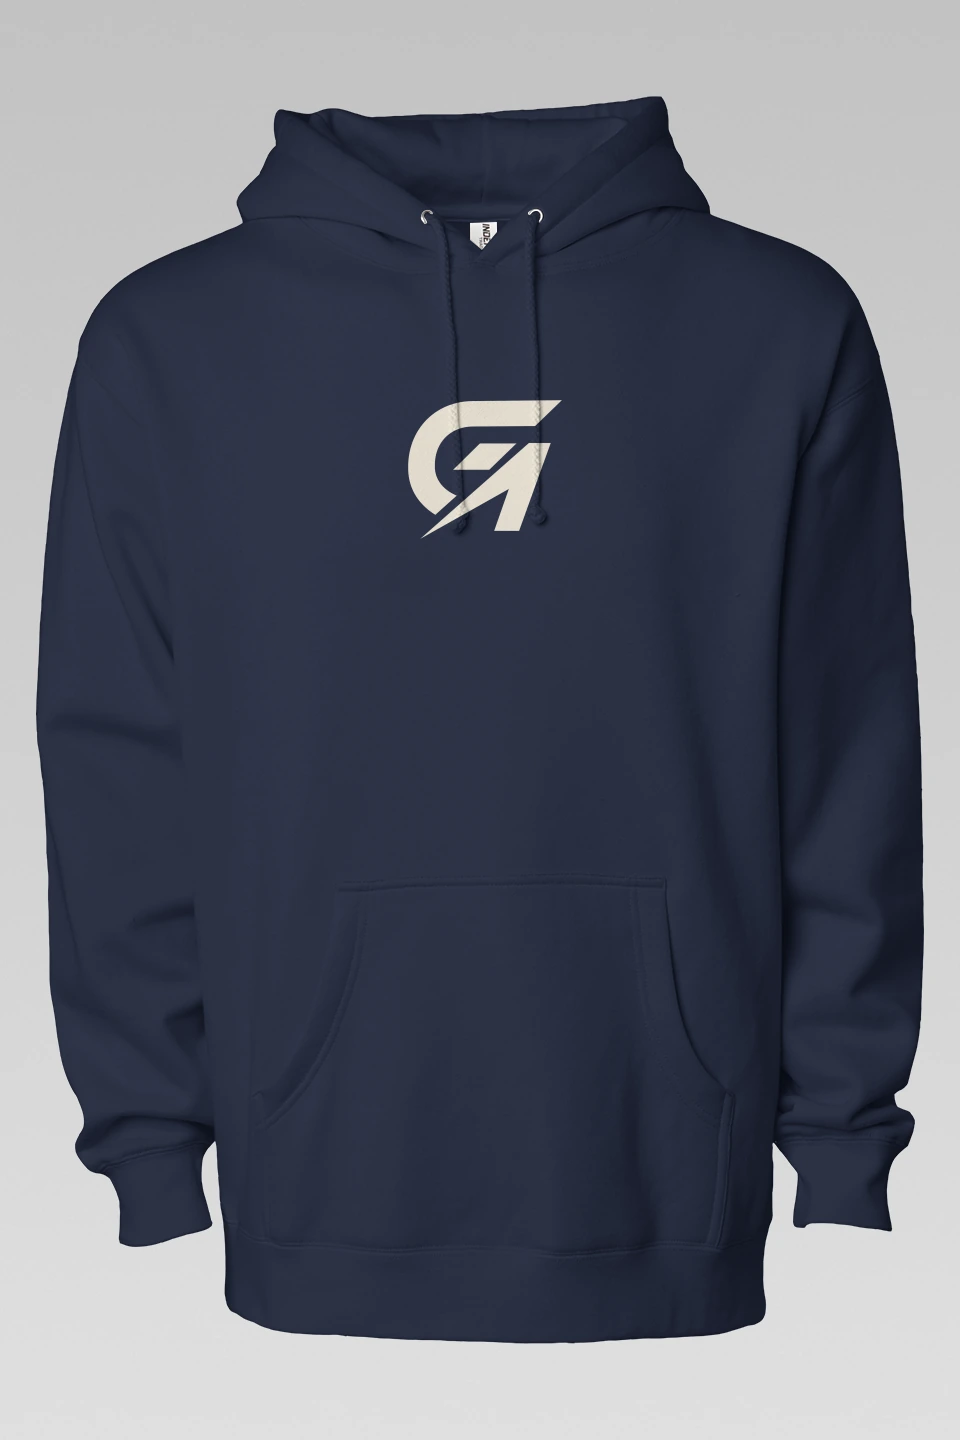
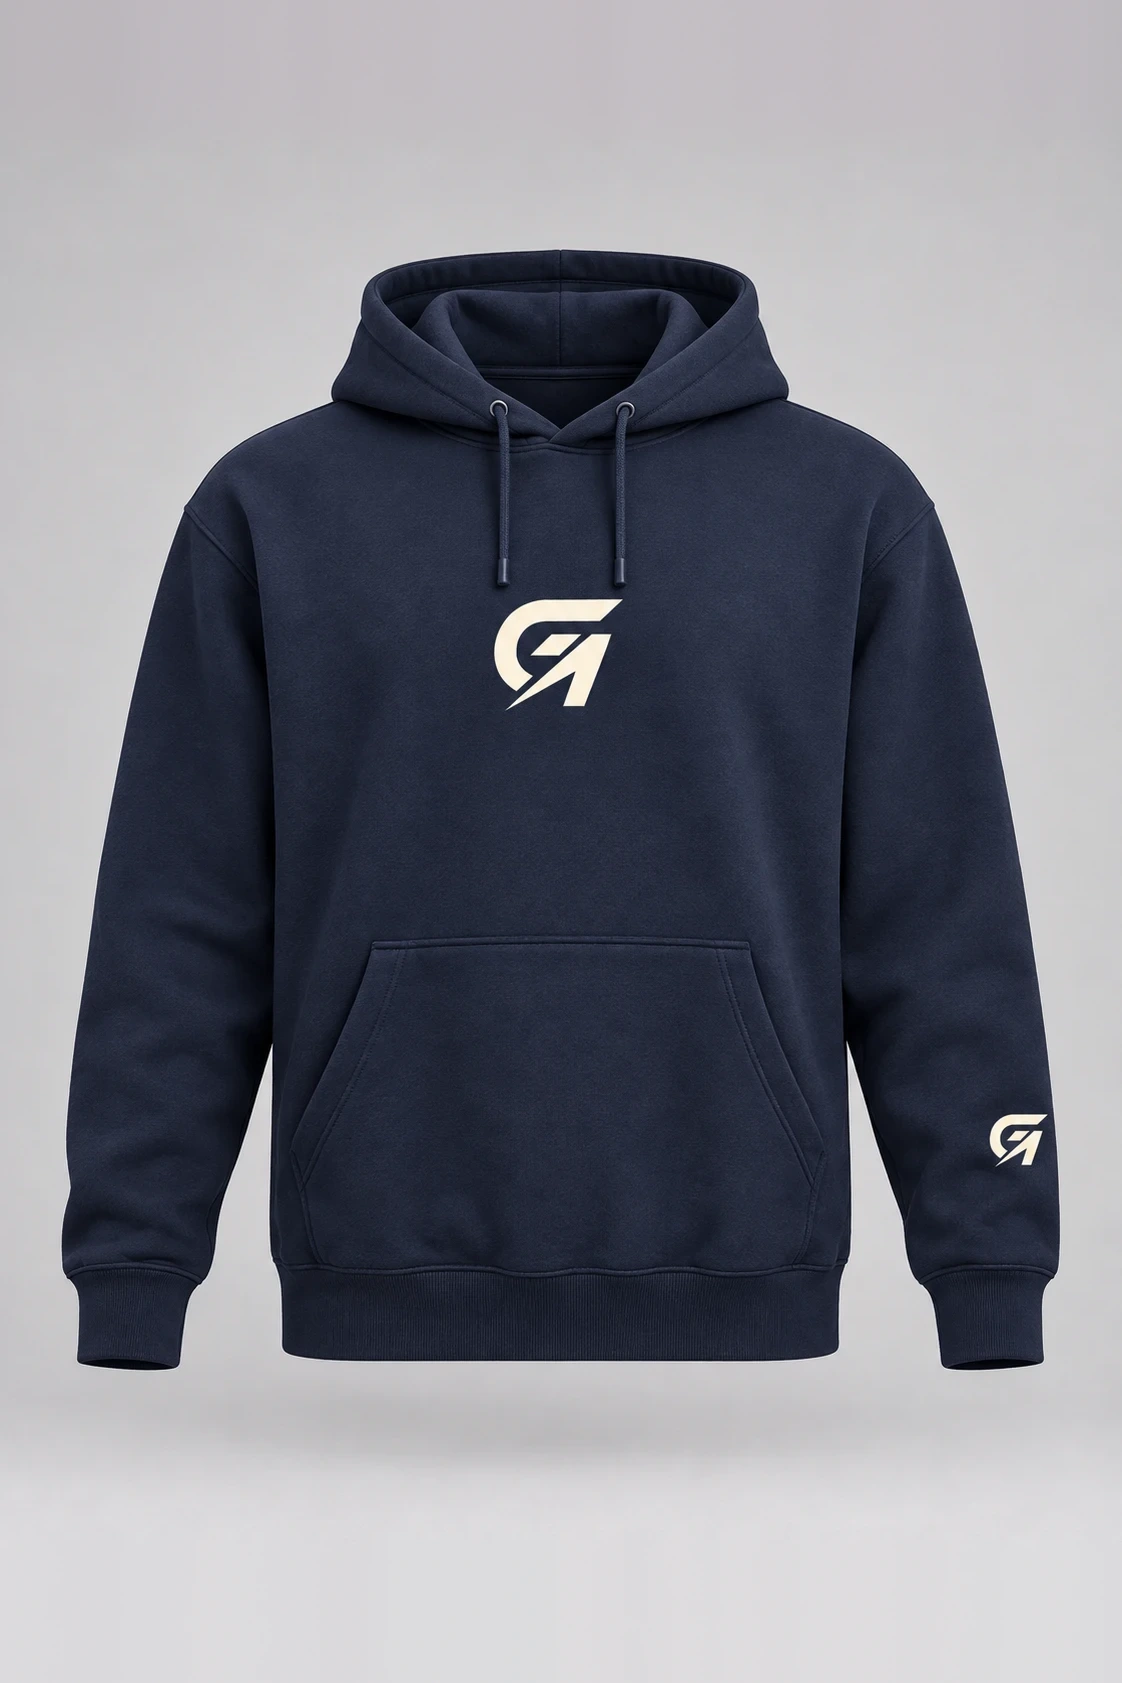
Lead the Navy Heritage Hoodie with the owner's product shot and model photos
Owner instruction 2026-10-22: upload these four now (Navy Heritage).

- Four 1122 x 1402 photos (product shot, model front, quarter left,
  quarter right) framed to 2:3 with backdrop extended above and below;
  original pixels untouched; seams under one level.
- Same gallery order as Black and Grey Heather, Apliiq's sleeve-side
  render last. The product shot replaces the Apliiq render at the same
  path with its own cache revision; the render moved to
  designs/58/retired-render.

Changed region(s): [[0.0, 0.0625, 0.9688, 0.9375], [0.3125, 0.4062, 0.3438, 0.4375], [0.125, 0.6562, 0.1562, 0.6875]]

diff --git a/src/lib/products.ts b/src/lib/products.ts
@@ -3787,11 +3787,28 @@ export const products: Product[] = [
         supplierColor: "Navy",
         hex: "#2A3043",
         skuFragment: "NAVY",
+        // The owner's product shot and model photos (2026-10-22) lead; Apliiq's
+        // sleeve-side render stays last for the sleeve detail.
         images: [
           {
             src: "/products/goal-heritage-hoodie-navy-catalog-product-front-20261022.webp",
-            alt: "GOAL Athletics Heritage Hoodie in Navy, product front with the cream GA monogram centred on the chest",
-            caption: "Concept render. Not a photograph of a manufactured sample.",
+            alt: "GOAL Athletics Heritage Hoodie in Navy, product front with the cream GA monogram centred on the chest and the small cream GA monogram on the left sleeve above the cuff",
+            caption: "AI-generated catalog visualization. Not a photograph of a manufactured sample.",
+          },
+          {
+            src: "/products/goal-heritage-hoodie-navy-catalog-model-front-20261022.webp",
+            alt: "Model facing forward in the Navy Heritage Hoodie with the cream GA monogram on the chest and on the left sleeve, black shorts and white sneakers",
+            caption: "AI-generated catalog visualization. Not a photograph of a manufactured sample.",
+          },
+          {
+            src: "/products/goal-heritage-hoodie-navy-catalog-model-quarter-left-20261022.webp",
+            alt: "Same model turned to the left in the Navy Heritage Hoodie, cream GA monogram on the chest and the left sleeve",
+            caption: "AI-generated catalog visualization. Not a photograph of a manufactured sample.",
+          },
+          {
+            src: "/products/goal-heritage-hoodie-navy-catalog-model-quarter-right-20261022.webp",
+            alt: "Same model turned to the right in the Navy Heritage Hoodie, cream GA monogram on the chest and the left sleeve",
+            caption: "AI-generated catalog visualization. Not a photograph of a manufactured sample.",
           },
           {
             src: "/products/goal-heritage-hoodie-navy-catalog-product-sleeve-20261022.webp",

diff --git a/src/lib/product-image.ts b/src/lib/product-image.ts
@@ -24,6 +24,7 @@ export function catalogImageSrc(src: string): string {
     // Apliiq render at this path the day both went live.
     "/products/goal-heritage-hoodie-grey-heather-catalog-product-front-20261022.webp": "grey-heather-front-photo-20261022",
     "/products/goal-heritage-hoodie-black-catalog-product-front-20261022.webp": "black-front-photo-20261022",
+    "/products/goal-heritage-hoodie-navy-catalog-product-front-20261022.webp": "navy-front-photo-20261022",
   };
   const revision = replaced[url.pathname]
     ? replaced[url.pathname]

diff --git a/designs/58_heritage-hoodie-ind4000-2026-10-22/README.md b/designs/58_heritage-hoodie-ind4000-2026-10-22/README.md
@@ -128,7 +128,11 @@ The owner supplied a product shot and three model photos for Grey Heather
   `black-front-photo-20261022`. Record:
   `docs/catalog/goal-heritage-hoodie-black-photos-20261022.json`. Black is the
   card default, so its product shot is now the collection card.
-- Bone and Navy still show Apliiq's renders until their photos land.
+- Navy followed in the same order: four 1122 x 1402 photos, each extended
+  above and below to 1122 x 1683 (seams 0.31 to 0.52). Cache revision
+  `navy-front-photo-20261022`. Record:
+  `docs/catalog/goal-heritage-hoodie-navy-photos-20261022.json`.
+- Bone still shows Apliiq's renders until its photos land.
 
 ## Original publish checklist
 
